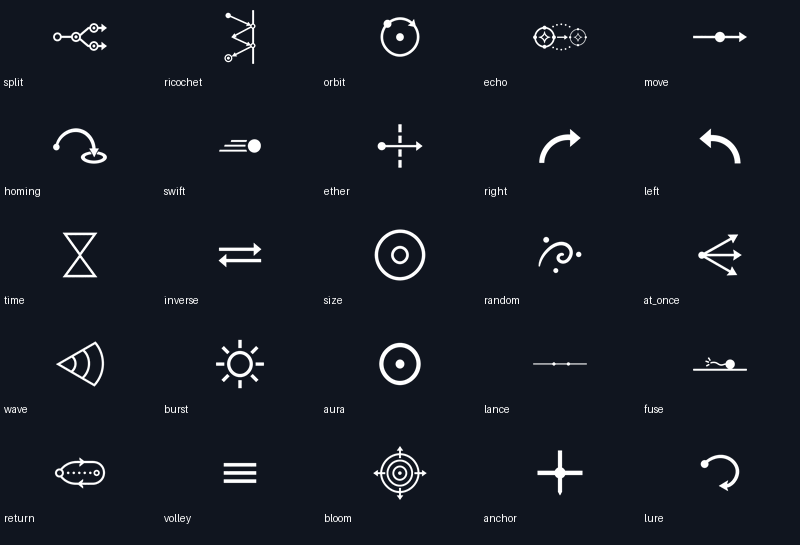
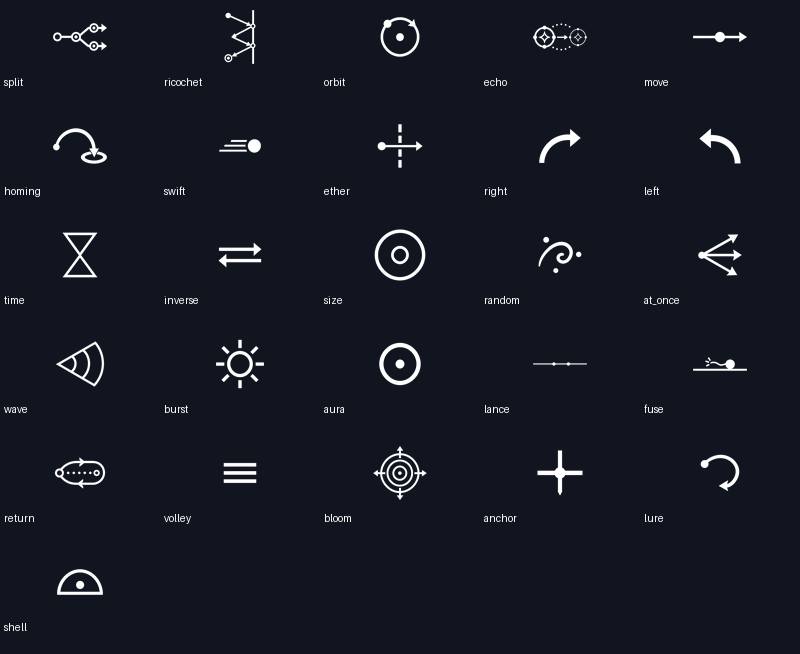
art: draw Shell module dome and protected dot

diff --git a/art/_archive/deliveries/2026-11-12/HANDOFF.md b/art/_archive/deliveries/2026-11-12/HANDOFF.md
@@ -2,13 +2,13 @@
 
 **Destination: `art/briefs-complete`; keep develop and the implementer branch untouched.** The prompt file was found on `claude/charming-gauss-hbq4n0` at `dd35e4b8`; it was safely fast-forwarded into this art branch. No force pushes. Fetch current refs and preserve any subsequent implementer work before continuing.
 
-Actual delivered: **61/77**. Every delivered image was generated with image_gen, shown in chat, technically exported, validated, committed and pushed before the next render. New art is review-candidate with production_approved:false. The exact delivered list is progress.json; production selections and source/reference hashes are manifest.json.
+Actual delivered: **62/77**. Every delivered image was generated with image_gen, shown in chat, technically exported, validated, committed and pushed before the next render. New art is review-candidate with production_approved:false. The exact delivered list is progress.json; production selections and source/reference hashes are manifest.json.
 
 ## Next work
 
-Next image: **`module-shell`**.
+Next image: **`module-linger`**.
 
-Remaining ordered queue: `module-shell`, `module-linger`, `module-quiet`, `module-silent`, `module-thread`, `module-cascade`, `module-tether`, `module-siphon`, `module-phantom`, `module-volatile`, `module-bastion`, `module-judgement_mark`, `module-halo`, `ui-revert`, `ui-practice`, `ui-felt`.
+Remaining ordered queue: `module-linger`, `module-quiet`, `module-silent`, `module-thread`, `module-cascade`, `module-tether`, `module-siphon`, `module-phantom`, `module-volatile`, `module-bastion`, `module-judgement_mark`, `module-halo`, `ui-revert`, `ui-practice`, `ui-felt`.
 
 Read `art/AGENTS.md`, `art/README.md`, `art/style-guide/PHC-Style-Guide.md`, `art/icons/STYLE-LOCK.md`, `art/briefs/GPT-PROMPTS-2026-11-12.md` and its linked current request/rules documents. Read queue.json in this folder: it contains exact prompts, reference paths and delivered flags. **Do not skip Both Hands just because its id exists:** its replacement is already delivered here and its stand-in is preserved in art/_archive/icons/perks/2026-11-12/. Do not rely on the Wick section heading13: the table and ART-REQUESTS enumerate11 (Rebuke, Both Hands, nine Calls).
 

diff --git a/art/_archive/deliveries/2026-11-12/README.md b/art/_archive/deliveries/2026-11-12/README.md
@@ -2,4 +2,4 @@
 
 Review candidates; production_approved:false. Source branch: claude/charming-gauss-hbq4n0, dd35e4b8. Destination: art/briefs-complete. The brief heading says13 Wick icons, but its table and ART-REQUESTS enumerate11. This run covers those11 plus25 feelings,38 modules and3 UI marks. Leon approved both test-set styles for continued production. Optional maps require current tile guides. No planned equipment or campaign maps are drawn.
 
-Delivered: 61/77. See progress.json, manifest.json, queue.json, prompts/, sources/, masters/v1/ and reviews/.
+Delivered: 62/77. See progress.json, manifest.json, queue.json, prompts/, sources/, masters/v1/ and reviews/.

diff --git a/art/icons/modules/README.md b/art/icons/modules/README.md
@@ -27,5 +27,6 @@ Pure white ink on transparency; image_gen drawings, technically separated and re
 - `module-bloom.png`: nested rings growing outward
 - `module-anchor.png`: a dot pinned by a cross-shaped stake
 - `module-lure.png`: an arrow pulling a dot inward
+- `module-shell.png`: a dome over a dot
 
 Leon approved both test-set family styles for continued production. Individual images remain review candidates, production_approved:false.
